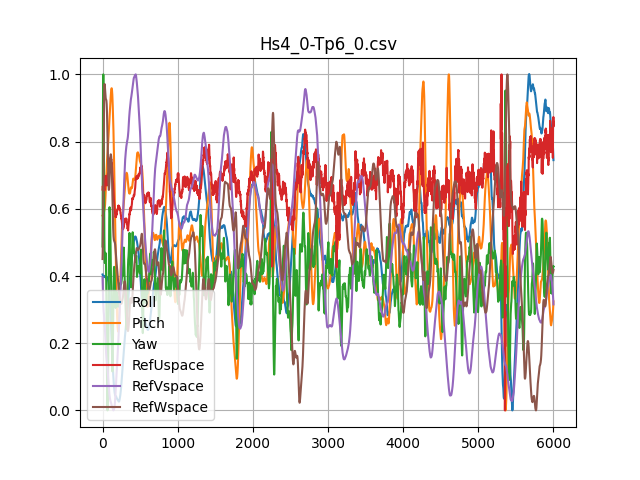
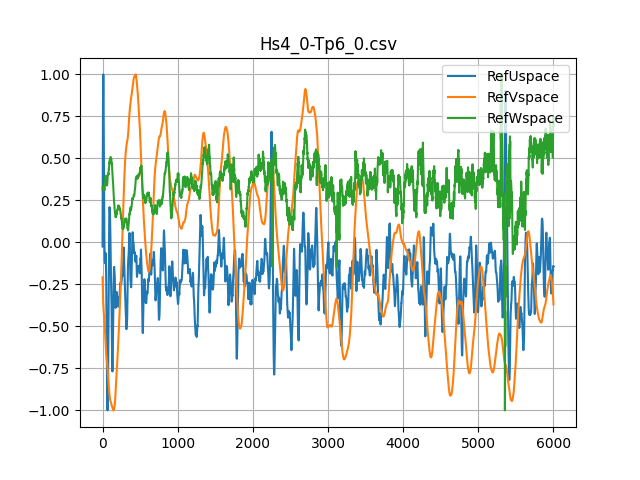
timeseries analysis

diff --git a/app/main.py b/app/main.py
@@ -268,17 +268,7 @@ def multi_step_forecast_validation(model:(...),
 
 
 
-if __name__ == '__main__':
-
-    import warnings
-    warnings.filterwarnings("ignore")
-    
-    # PARAMETERS
-    color:str = "magenta"
-    plot_limit:int = 100
-    look_ahead:int = 10
-
-    params:dict = utils.load_json("/data/params.json")
+def deep_learning_model(params:dict) -> None:
     verbose:bool = params["verbose"]
     case_study:str = f"{params['model']}-{params['task']}"
 
@@ -336,16 +326,71 @@ if __name__ == '__main__':
                             color=color,
                            ) 
     
-    plot_predictions(model=model,
-                     X_test=X_test[:plot_limit],
-                     y_test=y_test[:plot_limit],
-                     plot_img=f"{result_folder}/{case_study}-prediction.png",
-                    )
+    if params['task'] == 'REGR':
+        plot_predictions(model=model,
+                        X_test=X_test[:plot_limit],
+                        y_test=y_test[:plot_limit],
+                        plot_img=f"{result_folder}/{case_study}-prediction.png",
+                        )
+        
+        multi_step_error = multi_step_forecast_validation(model=model,
+                                                        X=X_test[:plot_limit],
+                                                        y=y_test[:plot_limit],
+                                                        n_steps=look_ahead,
+                                                        img_path=f"{result_folder}/{case_study}-look_ahead.png",
+                                                        color=color,
+                                                        )
+    elif params['task'] == 'CLAS':
+        pass
+    else:
+        raise ValueError(f"Unsupported task ({params['task']})")
+
+
+
+def timeseries_analysis(params:dict) -> None:
+    verbose:bool = params['verbose']
+    import utils.timeseries_utils as tsu
+
+    features = params['input_features']
+    if verbose:
+        utils.print_colored(f"SHIP-MOTION PREDICTION (TIMESERIES)", highlight=color)
+        print("Features:")
+        utils.print_two_column(params['input_features'], color=color)
     
-    multi_step_error = multi_step_forecast_validation(model=model,
-                                                      X=X_test[:plot_limit],
-                                                      y=y_test[:plot_limit],
-                                                      n_steps=look_ahead,
-                                                      img_path=f"{result_folder}/{case_study}-look_ahead.png",
-                                                      color=color,
-                                                     )
+    # RAW DATA
+    import data_handling as dh
+    DF = dh.load_dataset(f"{params['dataset_folder']}/{params['dataset']}",
+                         features=set(features),
+                         verbose=verbose,
+                         normalize=True,
+                        )
+    # STATIONARITY
+    # assert len(params['input_features']) == 1
+    stationarity_info = tsu.non_stationary_features_list(multivariate_timeseries=DF.to_numpy(),
+                                                         features=list(DF.columns),
+                                                         detailed_info=True,
+                                                         verbose=True
+                                                        )
+    
+    cointegration = tsu.check_multivariate_cointegration(multivariate_timeseries=DF.to_numpy(),
+                                                         features=list(DF.columns),
+                                                         verbose=verbose,
+                                                         color=color,
+                                                        )
+
+
+
+if __name__ == '__main__':
+
+    import warnings
+    warnings.filterwarnings("ignore")
+    
+    # PARAMETERS
+    color:str = "magenta"
+    plot_limit:int = 100
+    look_ahead:int = 10
+
+    params:dict = utils.load_json("/data/params.json")
+    
+    # deep_learning_model(params)
+    timeseries_analysis(params)

diff --git a/app/utils/timeseries_utils.py b/app/utils/timeseries_utils.py
@@ -1,7 +1,5 @@
 # project libraries
-from db_api import SIATE_DB_API
-import utils
-from hyperparameters import Config
+import utils.utils as utils
 
 # internal libraries
 import datetime
@@ -207,9 +205,14 @@ def ith_diff_timeseries(timeseries:np.ndarray, i:int=1) -> pd.Series:
 
 
 
-def non_stationary_features_list(multivariate_timeseries:pd.Series|np.ndarray, features:list[str], detailed_info:bool=False, verbose:bool=False) -> list[str]|list[tuple[str,int]]:
+def non_stationary_features_list(multivariate_timeseries:pd.Series|np.ndarray,
+                                 features:list[str],
+                                 detailed_info:bool=False,
+                                 verbose:bool=False
+                                ) -> list[str]|list[tuple[str,int]]:
     '''
     If `detailed_info` returns a list of tuples `(feature_name, nonstationarity_type)`
+    Else returns a list of **non** stationary features
     '''
     non_stationary_features:list[str] = list()
     if verbose:
@@ -253,11 +256,14 @@ def adf_test(timeseries:pd.Series|np.ndarray, verbose:bool=False) -> pd.Series:
 
 
 
-
 def kpss_test(timeseries:pd.Series|np.ndarray, verbose:bool=False) -> pd.Series:
     '''
     CHeck for stationarities around deterministic trends
     '''
+    import warnings
+    from statsmodels.tools.sm_exceptions import InterpolationWarning
+    # Ignore only the InterpolationWarning (and keep other warnings)
+    warnings.filterwarnings("ignore", category=InterpolationWarning)
     if verbose:
         print("Results of KPSS Test:")
     kpsstest = kpss(timeseries, regression="c")#, nlags="auto")
@@ -274,7 +280,7 @@ def kpss_test(timeseries:pd.Series|np.ndarray, verbose:bool=False) -> pd.Series:
 
 def check_cointegration(series_1:pd.Series|np.ndarray, series_2:pd.Series|np.ndarray, verbose:bool=False) -> bool:
     '''
-    Check if the pair of tiemseries can be cointegrated.
+    Check if the pair of timeseries can be cointegrated.
     '''
     old_test = OLS(series_1, series_2).fit()
     result = adfuller(old_test.resid)
@@ -291,3 +297,24 @@ def check_cointegration(series_1:pd.Series|np.ndarray, series_2:pd.Series|np.nda
         return False
     
 
+
+def check_multivariate_cointegration(multivariate_timeseries:pd.Series|np.ndarray,
+                                     features:list[str],
+                                     verbose:bool=False,
+                                     color:str="blue",
+                                    ) -> list[tuple[str,str]]:
+    '''
+    Check every pair of features and returns a list of cointegrated features
+    '''
+    cointegrated:list[tuple[str,str]] = list()
+    for i in range(len(features)-1):
+        for j in range(i+1, len(features)):
+            if check_cointegration(series_1=multivariate_timeseries[:,i],
+                                   series_2=multivariate_timeseries[:,j],
+                                   verbose=False,
+                                   ):
+                cointegrated.append( (features[i],features[j]) )
+    if verbose:
+        print("The following parameters are cointegrated")
+        utils.print_two_column(cointegrated, color=color)
+    return cointegrated

diff --git a/app/data_handling.py b/app/data_handling.py
@@ -196,7 +196,7 @@ def load_dataset(file_path:str,
     Loads the data from the ship-state simulations stored in `file_path` 
     '''
     if verbose:
-        print(f"Loading data from '{file_path}' ...", end="")
+        print(f"Loading data from '{file_path}' ... ", end="")
     DF = dfu.get_dataframe(file_path=file_path)
     if verbose:
         print("done.")
@@ -219,7 +219,7 @@ def load_dataset(file_path:str,
     if normalize:
         if verbose:
             print("Normalizing data (min-max) ... ", end="")
-        DF = (DF - DF.min()) / (DF.max() - DF.min())
+        DF = ((DF - DF.min()) / (DF.max() - DF.min()))*2 -1
         if verbose:
             print("done.")
     return DF
